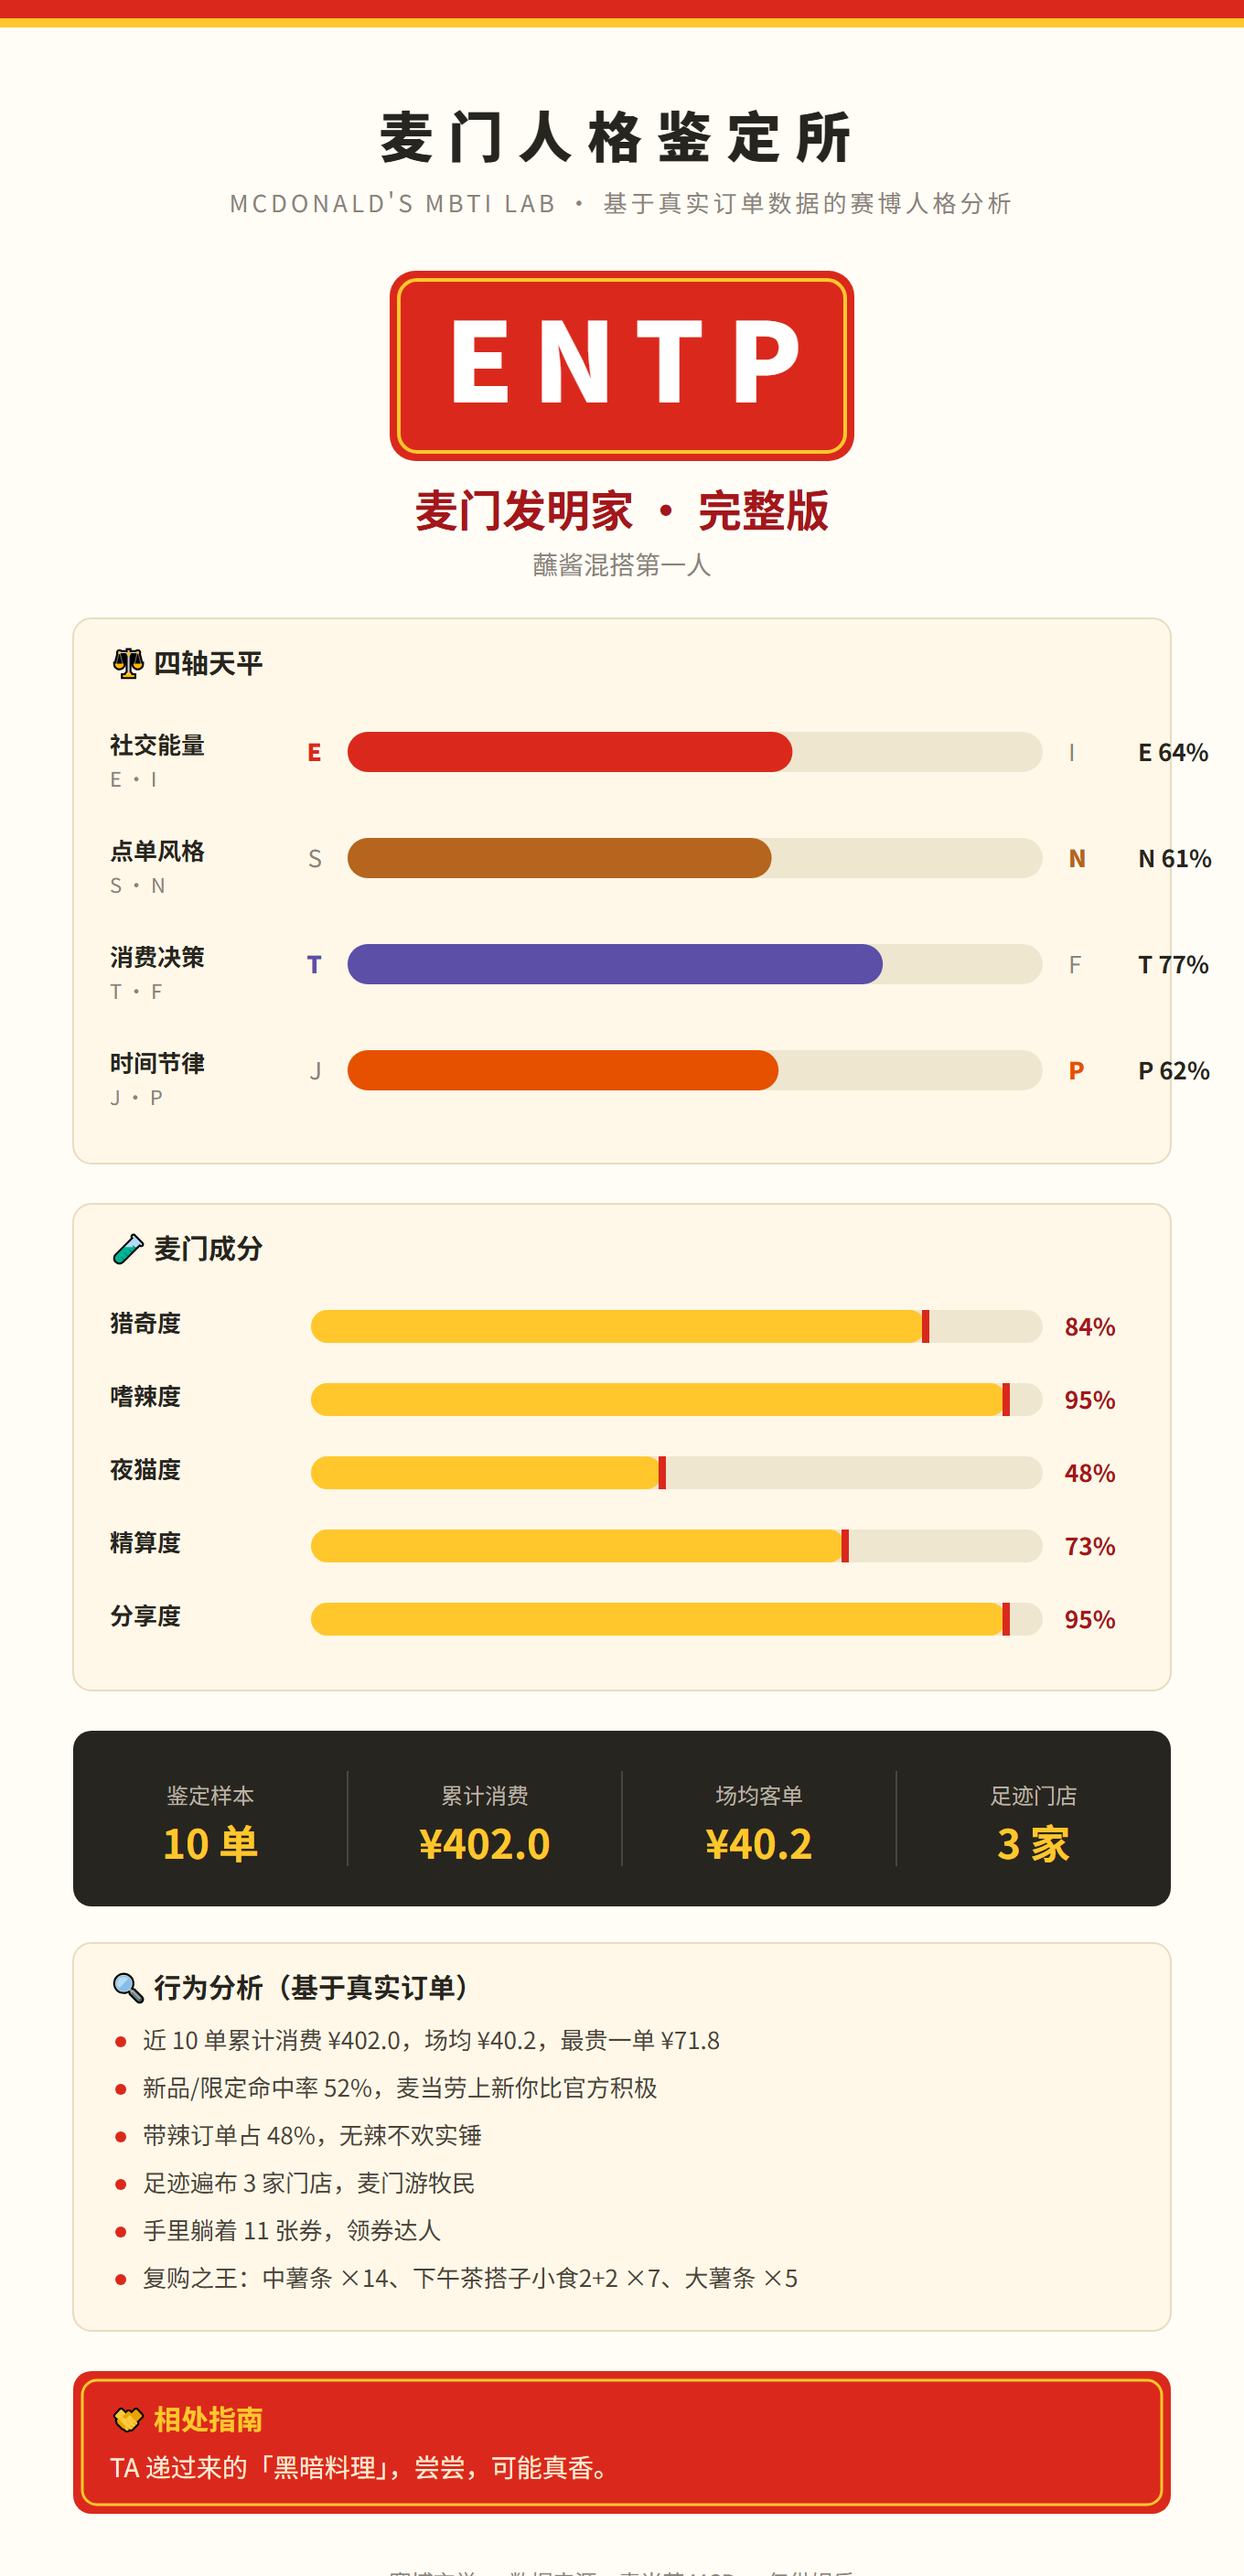
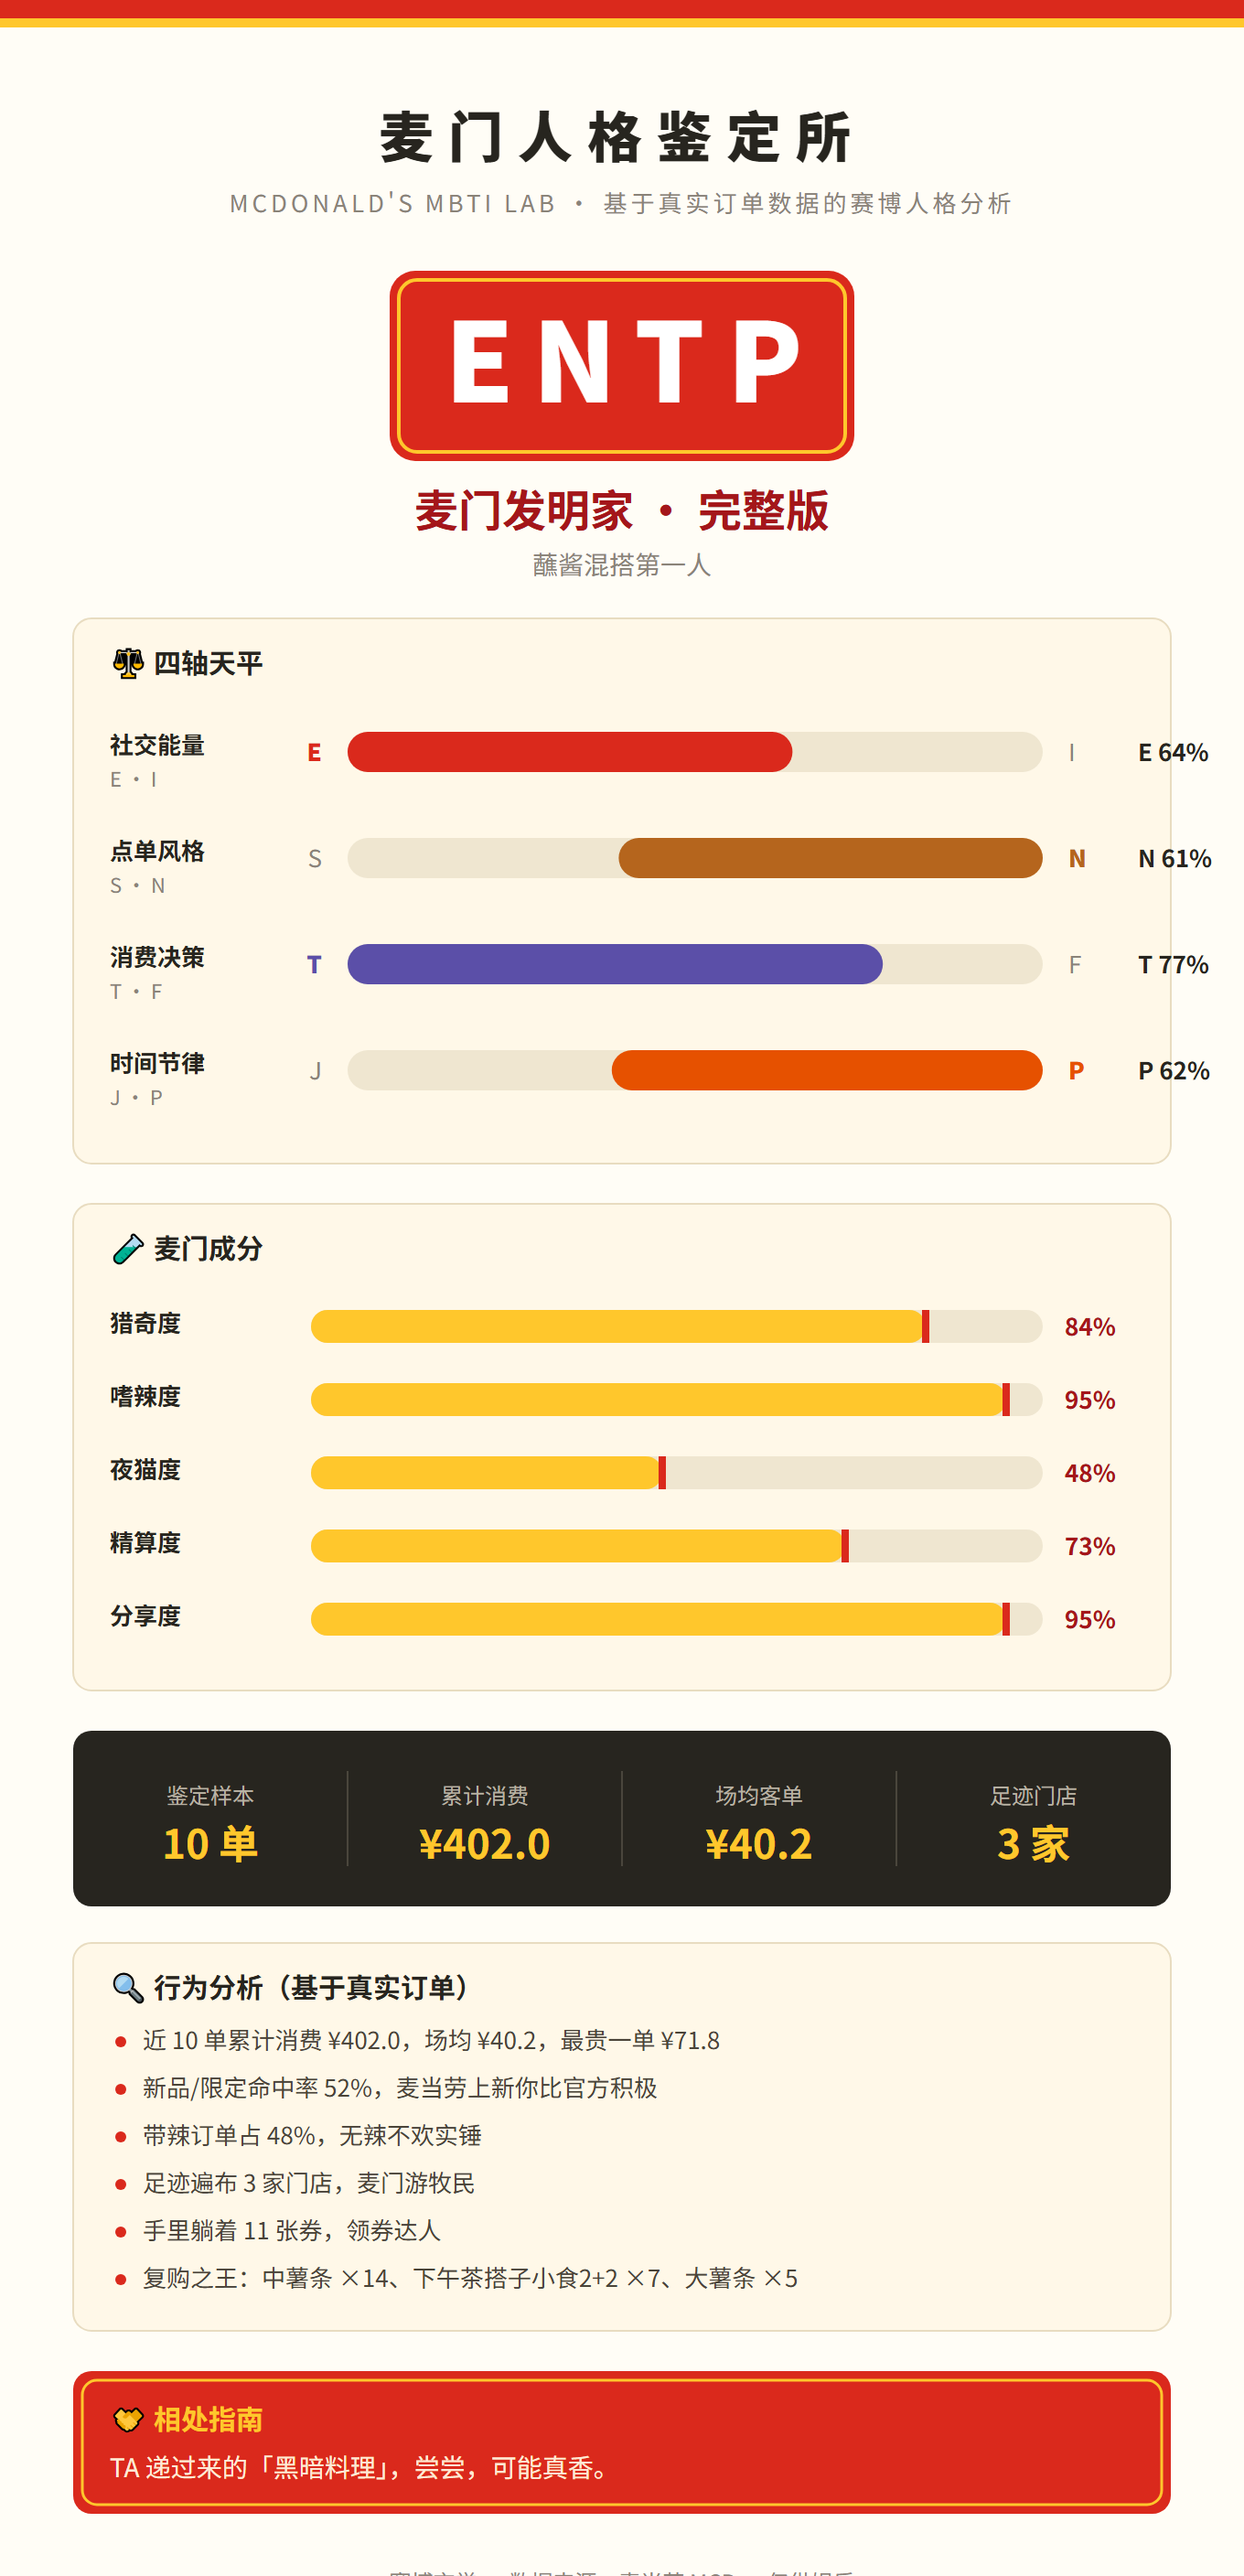
fix: 四轴天平填充方向与 dominant 字母极性对齐（天平式填充）

diff --git a/scripts/render_card.py b/scripts/render_card.py
@@ -118,7 +118,9 @@ def build_svg(persona: dict, width: int = 680) -> str:
         dom_ratio = left_ratio if dominant == left_letter else right_ratio
         fill_w = max(11, bar_w * dom_ratio)
         dom_color = color_a if dominant == left_letter else color_b
-        parts.append(f'<rect x="{bar_x}" y="{ay + 4}" width="{fill_w}" height="22" rx="11" fill="{dom_color}"/>')
+        # 天平式填充：dominant 在哪一侧，就从那一侧向内填充，保证视觉与字母极性一致
+        fill_x = bar_x if dominant == left_letter else bar_x + bar_w - fill_w
+        parts.append(f'<rect x="{fill_x}" y="{ay + 4}" width="{fill_w}" height="22" rx="11" fill="{dom_color}"/>')
         # 字母标注
         la_color = color_a if left_letter == dominant else GREY
         rb_color = color_b if right_letter == dominant else GREY
